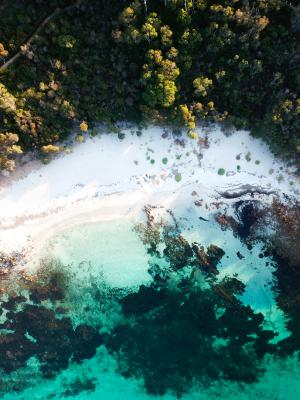
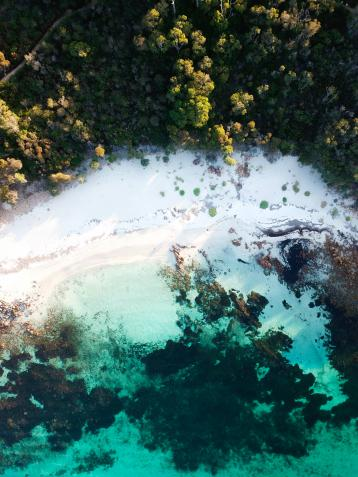
20201019

diff --git a/gd/img.php b/gd/img.php
@@ -5,8 +5,8 @@
     $canvas_h = imagesy($canvas);
     // echo $canvas_w,$canvas_h;
 
-    $new_w = 300;
-    $new_h = 400;
+    $new_w = 358;
+    $new_h = $canvas_h / $canvas_w * $new_w;
 
     $new_canvas = imagecreatetruecolor($new_w,$new_h);
 
